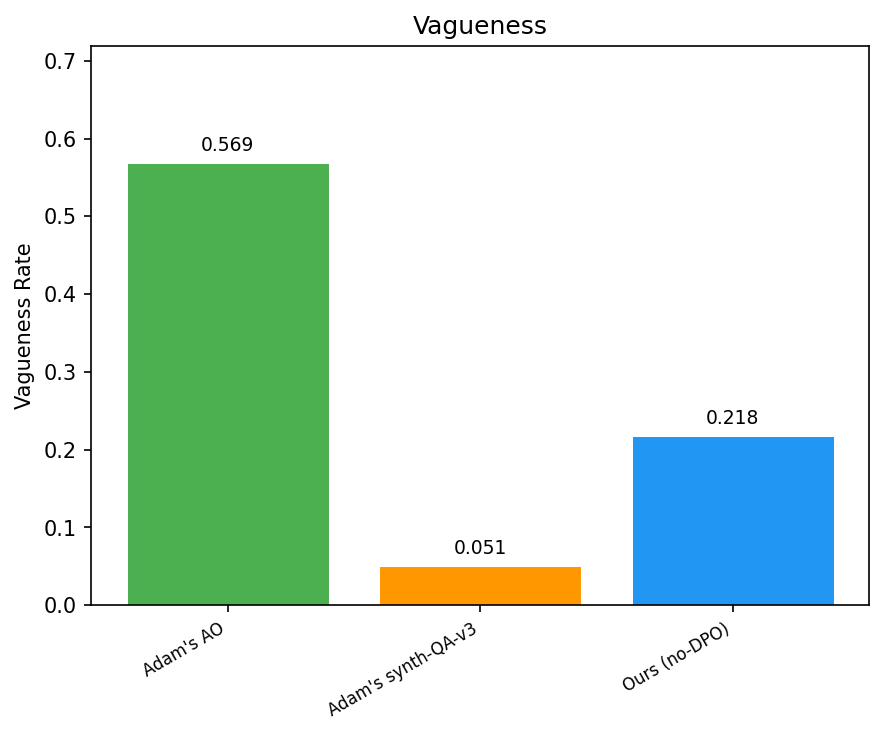
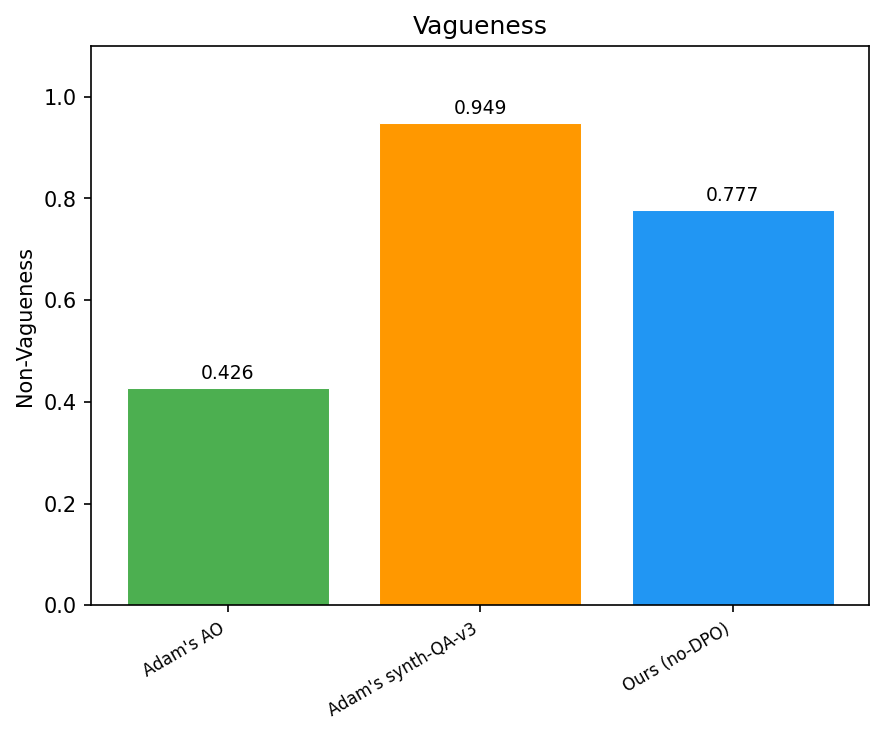
AObench: invert vagueness metric to non-vagueness (higher is better)

diff --git a/AObench/report.py b/AObench/report.py
@@ -67,7 +67,7 @@ EVAL_METRIC_MAP: dict[str, tuple[str, str, bool]] = {
     "system_prompt_qa_latentqa": ("mean_correctness", "Mean Correctness (1-5)", True),
     "taboo": ("accuracy", "Accuracy", True),
     "personaqa": ("accuracy", "Accuracy", True),
-    "vagueness": ("vagueness_rate", "Vagueness Rate", False),
+    "vagueness": ("specificity_rate", "Non-Vagueness", True),
     "domain_confusion": ("domain_confusion_rate", "Domain Confusion Rate", False),
     "activation_sensitivity": ("activation_sensitivity", "Activation Sensitivity", True),
 }
